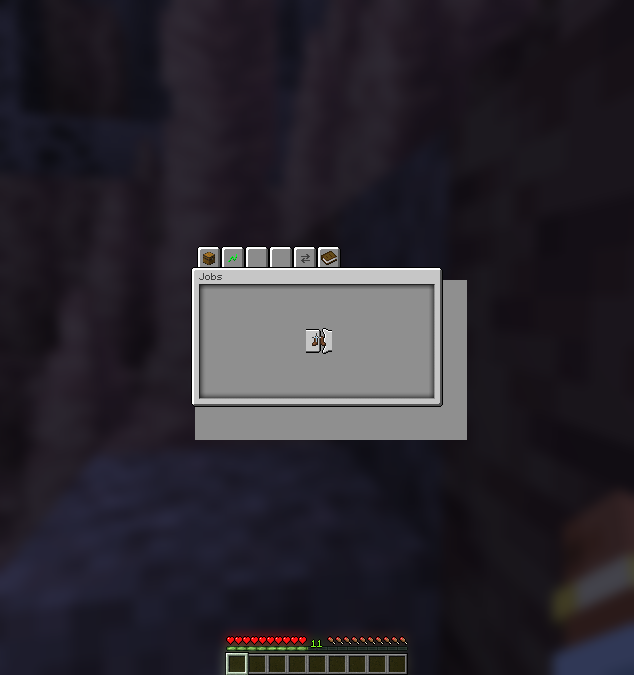
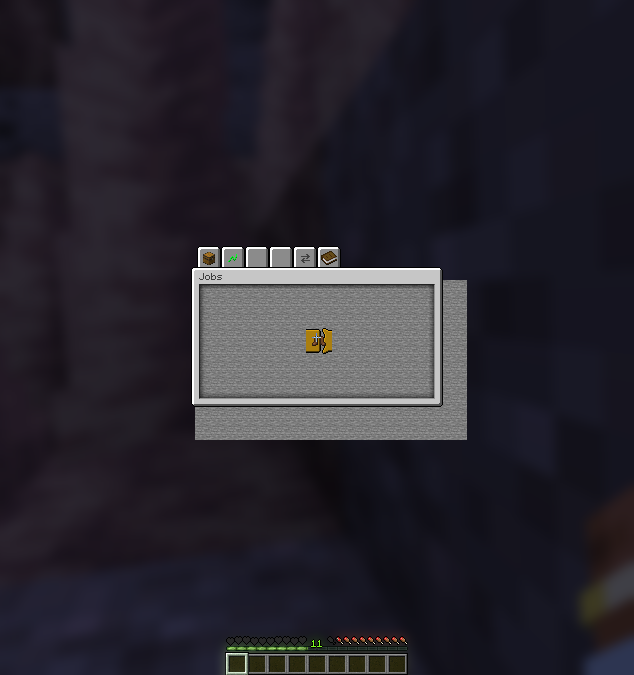
Fix the 1.20.6 skills-pane blit UV and make port-test captures hover-deterministic
The skills-pane background (VillagerAdvancementsContent.drawContents tiling
stone.png) rendered as one solid 0x8F gray on 1.20.6: the 7-arg
GuiGraphics.blit defaults maxU/maxV to 256, so a 16x16 tile sampled only the
texture's top-left pixel. Pass the texture dimensions, as vanilla's own
1.20.6 AdvancementTab does. The golden skills capture additionally carried
the hover tooltip fade (pane dimmed to 70%); add a qtdiag 'cursor x y'
command (both branches) and park the pointer at the window corner in the
capture.sh shot stage so captures are hover-state independent.

Skills center-region diff: 70.7% -> 22.7%; the residual is fixture content
(different job sets between the two worlds), not rendering. Re-banked the
skills captures on both branches; full-suite center diffs now: parent 2.2%,
stats 2.8%, economics 1.0%, bop 7.8%, quests 10.6% (fixture: wip town has
zero quests), skills 22.7%.

porttest: manifest 'center' rects + run.sh center-region diff, PORTTEST.md
notes on cursor parking and fixture-age drift, plan test-ledger row.

diff --git a/src/main/java/ca/bradj/questown/loader/neo/QtDiagClient.java b/src/main/java/ca/bradj/questown/loader/neo/QtDiagClient.java
@@ -27,9 +27,11 @@ import java.util.List;
  *       server console at all (the dev server's stdin may be a dead fifo).</li>
  * </ul>
  * Commands: {@code tab <type>} (open a villager tab from the current tabbed
- * menu, same {@link OpenVillagerMenuMessage} a tab click sends) and
+ * menu, same {@link OpenVillagerMenuMessage} a tab click sends),
  * {@code shot <name>} (render-thread {@link Screenshot} to
- * {@code <gameDir>/diags/<name>.png}).
+ * {@code <gameDir>/diags/<name>.png}), and {@code cursor <x> <y>} (park the
+ * pointer at a fixed window-pixel position so hover-dependent render state —
+ * e.g. the advancements-pane tooltip fade — is identical across captures).
  */
 public class QtDiagClient {
 
@@ -89,6 +91,7 @@ public class QtDiagClient {
             switch (parts[0]) {
                 case "tab" -> tab(mc, parts[1]);
                 case "shot" -> shot(mc, parts.length > 1 ? parts[1] : "shot");
+                case "cursor" -> cursor(mc, Double.parseDouble(parts[1]), Double.parseDouble(parts[2]));
                 default -> System.out.println("[qtdiag] unknown command: " + parts[0]);
             }
         } catch (Throwable t) {
@@ -114,6 +117,32 @@ public class QtDiagClient {
                 type
         ));
         System.out.println("[qtdiag] tab " + type + " requested");
+    }
+
+    /**
+     * Park the pointer at a fixed window-pixel position. The screen's
+     * mouseX/mouseY come from {@code MouseHandler.xpos()/ypos()}; those are
+     * private, so set them by reflection. Dev-diag only; the pointer only
+     * moves again on a real OS mouse event.
+     */
+    private static void cursor(Minecraft mc, double x, double y) {
+        try {
+            java.lang.reflect.Field fx = mc.mouseHandler.getClass().getDeclaredField("xpos");
+            java.lang.reflect.Field fy = mc.mouseHandler.getClass().getDeclaredField("ypos");
+            fx.setAccessible(true);
+            fy.setAccessible(true);
+            mc.execute(() -> {
+                try {
+                    fx.set(mc.mouseHandler, x);
+                    fy.set(mc.mouseHandler, y);
+                    System.out.println("[qtdiag] cursor parked at " + x + "," + y);
+                } catch (Throwable t) {
+                    System.out.println("[qtdiag] cursor failed: " + t);
+                }
+            });
+        } catch (Throwable t) {
+            System.out.println("[qtdiag] cursor failed: " + t);
+        }
     }
 
     private static void shot(Minecraft mc, String name) {

diff --git a/src/main/java/ca/bradj/questown/gui/villager/advancements/VillagerAdvancementsContent.java b/src/main/java/ca/bradj/questown/gui/villager/advancements/VillagerAdvancementsContent.java
@@ -205,7 +205,12 @@ public class VillagerAdvancementsContent {
 
             for (int i1 = -1; i1 <= 15; ++i1) {
                 for (int j1 = -1; j1 <= 8; ++j1) {
-                    p_97164_.blit(resourcelocation, k + 16 * i1, l + 16 * j1, 0, 0, 16, 16);
+                    // 1.20.6 blit takes normalized UV: without explicit
+                    // maxU/maxV the 7-arg overload divides by 256, so a 16x16
+                    // tile samples only the texture's top-left pixel (the pane
+                    // renders as one solid color). Vanilla's own
+                    // AdvancementTab passes the texture dimensions.
+                    p_97164_.blit(resourcelocation, k + 16 * i1, l + 16 * j1, 0.0F, 0.0F, 16, 16, 16, 16);
                 }
             }
         }

diff --git a/tools/porttest/PORTTEST.md b/tools/porttest/PORTTEST.md
@@ -16,8 +16,18 @@ Built for the 1.19.2 → 1.20.6 migration; version-generic beyond that.
   **No `tp` across distance** — see "player death" below.
 - **Zero-click menu open**: the console command `_qtdev openvillager <type>`
   opens the per-villager tabbed menu (`showUI` for every type, including
-  inventory — the flag-level `showMultiStatusUI` menu has no villager UUID
+  inventory - the flag-level `showMultiStatusUI` menu has no villager UUID
   and the hook cannot tab it) for the connected player.
+- **Same fixture age**: the fixture state is time-dependent - townies
+  work, jobs complete, quests and job unlocks progress while the world is
+  up. A re-capture against a world that has been running for hours will
+  diff against a bank shot minutes after `prep`, independent of any code
+  change (observed: the golden skills pane and quest pages drift within
+  the hour). Re-bank a screen from a freshly `prep`-ed world, or from a
+  world at the same age as the bank it is compared against. Both
+  branches can run **in parallel** (separate worktree + port, e.g.
+  1.20.6 on 25565, 1.19.2 on 25571); keep both servers up and switch
+  clients per branch instead of killing a server to free its port.
 - **Content-verified before banking**: each captured PNG is vision-checked
   (recipe in `references/vision-check-local-images.md`) to confirm the
   expected tab is active. Distinct file sizes / md5s prove the screens
@@ -36,6 +46,11 @@ Built for the 1.19.2 → 1.20.6 migration; version-generic beyond that.
   - `connect <host> <port>` → quick-connect from the title screen
     (1.19.2: `ConnectScreen.startConnecting` + `ServerData`; the
     `--server/--port` game args do not reliably auto-connect there)
+  - `cursor <x> <y>` → park the pointer at a fixed window-pixel position
+    (reflection into `MouseHandler.xpos/ypos`). The `shot` stage sends it
+    before every screenshot, so hover-dependent render state (the
+    advancements-pane tooltip fade dims the pane to 70% when the cursor is
+    over it; hovered card highlights) is identical across captures
 - `capture.sh` — one-branch driver, STAGED. Every stage is a fast
   command (≤60s); launch stages return immediately, wait stages poll
   ≤60s and are idempotent (re-invoke until they pass):

diff --git a/src/main/java/ca/bradj/questown/gui/COMPLEX.md b/src/main/java/ca/bradj/questown/gui/COMPLEX.md
@@ -70,6 +70,24 @@ flowchart TD
   gated, and banked post-fix; the heart/hotbar rows now match the golden
   positions (`run.sh diff`).
 
+## 1.20.6 blit UV: the 7-arg `GuiGraphics.blit` divides by 256
+
+1.20.6 changed the GUI blit pipeline to normalized UV: the quad's UVs are
+`u / maxU`, `v / maxV`. The 7-arg `blit(rl, x, y, u, v, w, h)` overload
+**defaults maxU/maxV to 256**, so a 16x16 texture blit samples only the
+texture's top-left 1/16 (one pixel) and stretches it across the tile. In
+1.19.2 the equivalent `PoseStack.blit` used raw texture-pixel UVs, so the
+ported call that looked identical renders as a solid color on 1.20.6.
+
+Caught in the port-test oracle: the skills-pane background
+(`VillagerAdvancementsContent.drawContents` tiles `stone.png`) rendered as one
+solid 0x8F gray (stone.png pixel (0,0)) instead of the mottled texture.
+Fix: pass the texture dimensions, the way vanilla's own 1.20.6
+`AdvancementTab.drawContents` does -
+`blit(rl, x, y, 0.0F, 0.0F, 16, 16, 16, 16)` (9-arg form). Blits into 256x256
+atlas textures (widgets.png, bars.png) are correct as-is because their
+maxU/maxV happen to equal 256.
+
 ## Flow layout (FlagCraftingScreen)
 
 `computeLayout()` stacks blocks top-to-bottom, advancing the `y` cursor past each block's

diff --git a/docs/plans/2026-09-28-001-refactor-loader-agnostic-neoforge-1206-plan.md b/docs/plans/2026-09-28-001-refactor-loader-agnostic-neoforge-1206-plan.md
@@ -109,6 +109,7 @@ from **vanilla-version-specific** to **loader-agnostic (forge↔neo) + version-s
 | 1 | `./gradlew compileJava` (Questown) green against Neo 1.20.6; `./gradlew test` green | pending |
 | 2 | event paths still fire (a held run tick/placement smoke) | pending |
 | 4 | `gui-lint` oracle on the reworked screens: open in dev client, `[gui-lint] <Screen> … no layout violations` | pending |
+| 4 | `tools/porttest` pixel oracle: 6 golden screens. Center-region diff: parent 2.2%, stats 2.8%, economics 1.0%, bop 7.8%, quests 10.6% (fixture: wip town has zero quests), skills 22.7% (residual = fixture content, not rendering: different job sets → different widgets + scroll phase; pane background verified identical after the 1.20.6 blit-UV fix, `gui/COMPLEX.md`) | verified (2026-09-30) |
 | 5 | held `runServer` autotest with `/tick rate` set, wall-clock measured | pending |
 
 ## Open decisions / risks
